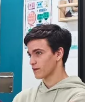
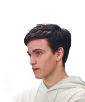
Cutout data/grupoinventado/blingyourver.json (quitar fondo)

diff --git a/js/ranking.js b/js/ranking.js
@@ -4,7 +4,7 @@
 /* ========================================= */
 
 /* Bump when the avatar images change, to bust the browser/Pages cache. */
-const PHOTO_VER = 180;
+const PHOTO_VER = 181;
 window.PHOTO_VER = PHOTO_VER;
 
 const Ranking = {
